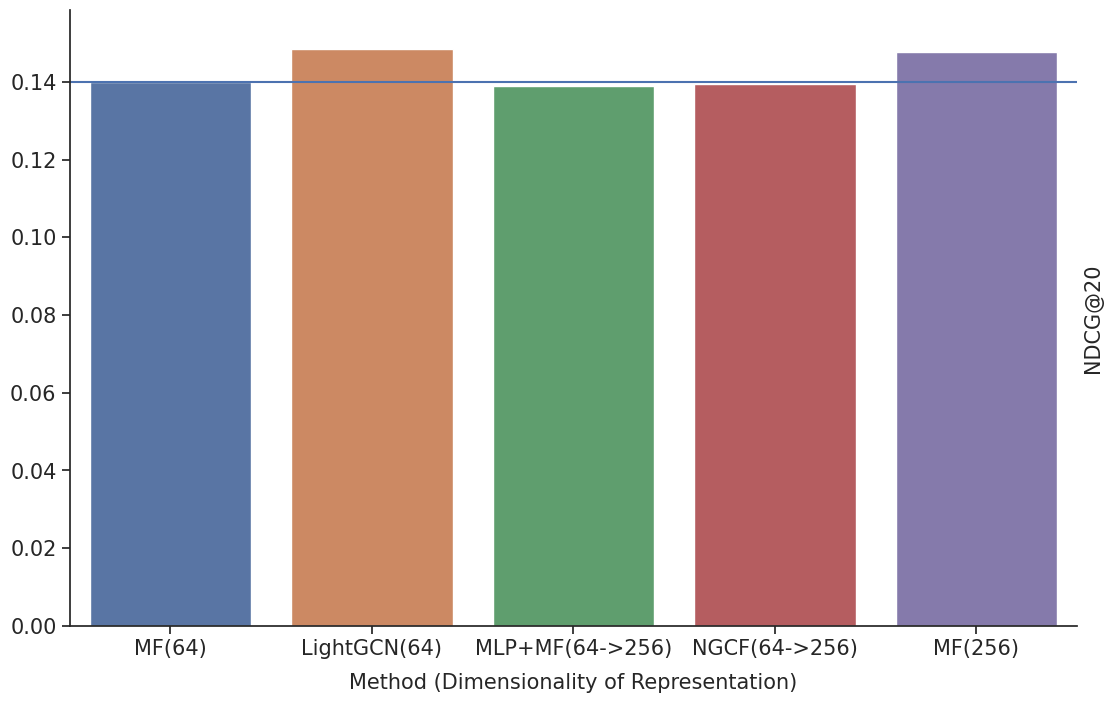
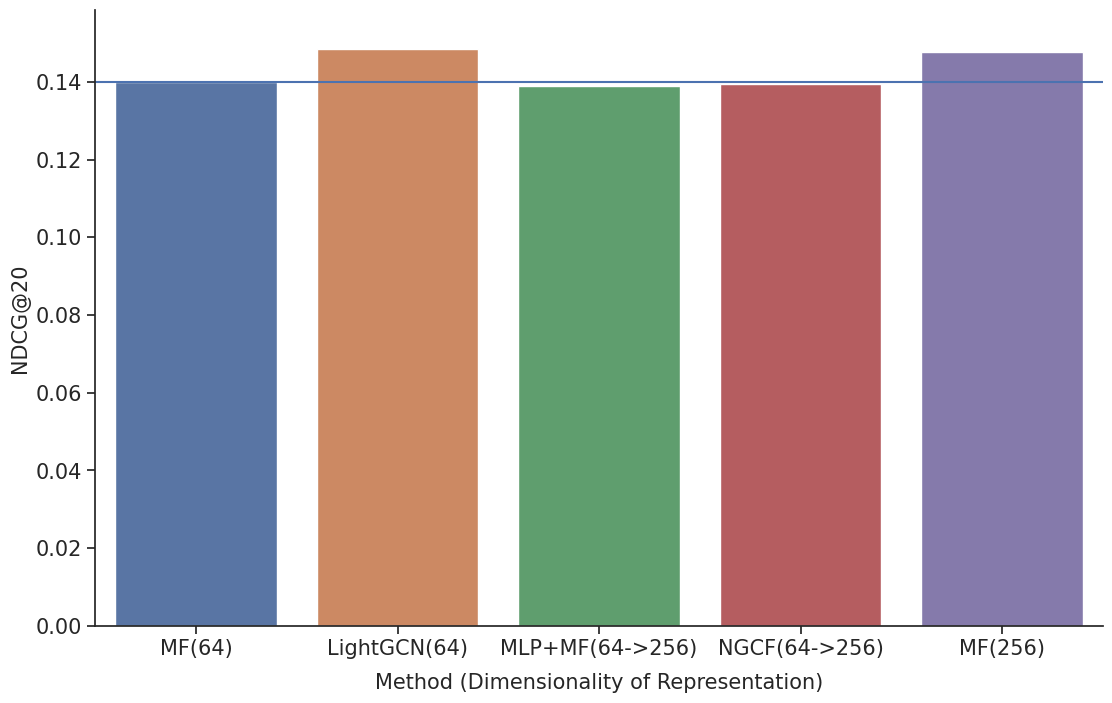
update charts

diff --git a/plot_chart.py b/plot_chart.py
@@ -29,8 +29,8 @@ plt.rc('legend', title_fontsize=BIGGER_SIZE)
 
 csv_base_dir = "csv_results"
 
-# csv_name = "bpr_yelp"
-csv_name = "bpr_gowalla"
+csv_name = "bpr_yelp"
+# csv_name = "bpr_gowalla"
 
 csv_fpath = os.path.join(csv_base_dir, "{}.csv".format(csv_name))
 
@@ -50,7 +50,7 @@ fig, ax = plt.subplots(figsize=(13, 8))
 ax.xaxis.labelpad = 10
 
 
-ax.yaxis.set_label_position("right")
+# ax.yaxis.set_label_position("right")
 
 g = sns.barplot(
     ax=ax,

diff --git a/README.md b/README.md
@@ -15,13 +15,13 @@ An Efficient and Unified Benchmark for GNN-based Recommendation.
 
 Performance on Yelp with BPR Loss
 <p align="center">
-<img src="plots/bpr_yelp.png" width="500"/>
+<img src="plots/bpr_yelp.png" width="400"/>
 </p>
 
 
 Performance on Gowalla with BPR Loss:
 <p align="center">
-<img src="plots/bpr_gowalla.png" width="500"/>
+<img src="plots/bpr_gowalla.png" width="400"/>
 </p>
 
 
